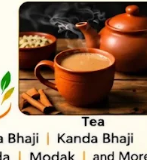
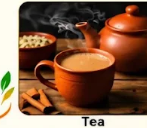
fix(ui-ux): enhance text contrast in StickyStory, clean image crops, and improve mobile layout

diff --git a/src/components/StickyStory.tsx b/src/components/StickyStory.tsx
@@ -1,6 +1,6 @@
 "use client";
 
-// [ADDED] Sticky Scroll Story Experience: Full-screen pinned sequence (SWAD -> MASALA -> GARMA-GARAM -> MAHARASHTRA -> SWADAM -> चव महाराष्ट्राची)
+// [ADDED] Sticky Scroll Story Experience: Full-screen interactive sequence with crystal-clear contrast and typography
 import React, { useState } from "react";
 import Image from "next/image";
 import { BrushUnderline, DecorativeLeaf, SpiceSparkle } from "@/components/BrandMotifs";
@@ -14,89 +14,129 @@ export function StickyStory() {
       word: "SWAD",
       marathi: "स्वाद",
       subtitle: "The Taste that Defines Us",
-      description: "Rooted in authentic homemade Maharashtrian seasonings, balancing spicy, tangy, and savoury perfection.",
+      description:
+        "Rooted in authentic homemade Maharashtrian seasonings, balancing spicy, tangy, and savoury perfection.",
       bg: "bg-cream-100",
       textColor: "text-brown-900",
       accentColor: "text-saffron-600",
+      subtitleColor: "text-brown-900 font-bold",
+      descColor: "text-brown-800",
+      tagClasses: "bg-saffron-100 border-saffron-300 text-saffron-800",
+      tagIconColor: "text-saffron-600",
+      cardBorder: "border-turmeric-400",
       image: "/images/banner_misal.png",
       tag: "Authentic Flavor",
+      dishCaption: "Spicy Pune Misal Pav",
     },
     {
       word: "MASALA",
       marathi: "मसाला",
       subtitle: "The Soul of Marathi Spice",
-      description: "Aromatic goda masala, roasted dry coconut, pungent mustard, and carom seeds roasted to peak fragrance.",
+      description:
+        "Aromatic goda masala, roasted dry coconut, pungent mustard, and carom seeds roasted to peak fragrance.",
       bg: "bg-gradient-to-br from-saffron-600 to-saffron-deep",
       textColor: "text-white",
       accentColor: "text-turmeric-300",
+      subtitleColor: "text-cream-50 font-bold",
+      descColor: "text-cream-100",
+      tagClasses: "bg-white/20 border-white/40 text-white",
+      tagIconColor: "text-turmeric-300",
+      cardBorder: "border-turmeric-300/40",
       image: "/images/kanda_bhaji.jpg",
       tag: "Tempering & Spices",
+      dishCaption: "Crispy Golden Kanda Bhaji",
     },
     {
       word: "GARMA-GARAM",
       marathi: "गरमा-गरम",
       subtitle: "Fresh From the Kadhai & Tawa",
-      description: "Never pre-packaged or stale. Food cooked right when you order it, steaming hot onto your plate.",
-      bg: "bg-brown-900",
-      textColor: "text-cream-100",
+      description:
+        "Never pre-packaged or stale. Food cooked right when you order it, steaming hot onto your plate.",
+      bg: "bg-gradient-to-br from-[#2D1810] to-[#1A0E08]",
+      textColor: "text-cream-50",
       accentColor: "text-turmeric-gold",
+      subtitleColor: "text-turmeric-200 font-bold",
+      descColor: "text-cream-200",
+      tagClasses: "bg-white/10 border-turmeric-400/40 text-turmeric-300",
+      tagIconColor: "text-turmeric-gold",
+      cardBorder: "border-turmeric-400/50",
       image: "/images/wada_pav.jpg",
       tag: "Cooked Fresh",
+      dishCaption: "Iconic Maharashtra Wada Pav",
     },
     {
       word: "MAHARASHTRA",
       marathi: "महाराष्ट्र",
       subtitle: "Culinary Heritage of the Soil",
-      description: "From the breakfast streets of Pune to the thali traditions of rural Maharashtra, pure veg comfort in every bite.",
-      bg: "bg-gradient-to-br from-brandGreen-800 to-brandGreen-900",
+      description:
+        "From the breakfast streets of Pune to the thali traditions of rural Maharashtra, pure veg comfort in every bite.",
+      bg: "bg-gradient-to-br from-[#143D22] to-[#0D2B16]",
       textColor: "text-white",
       accentColor: "text-turmeric-300",
+      subtitleColor: "text-cream-50 font-bold",
+      descColor: "text-cream-100",
+      tagClasses: "bg-white/20 border-white/40 text-white",
+      tagIconColor: "text-turmeric-300",
+      cardBorder: "border-turmeric-400/40",
       image: "/images/lunch_thali.jpg",
       tag: "Culture on a Plate",
+      dishCaption: "Maharashtrian Lunch Thali",
     },
     {
       word: "SWADAM",
       marathi: "स्वादिष्ट",
       subtitle: "चव महाराष्ट्राची",
-      description: "Shop No. 5, 34 Western Pavilion, Pan Card Club Road, Baner. Where Pune comes home for true Swad.",
+      description:
+        "Shop No. 5, 34 Western Pavilion, Pan Card Club Road, Baner. Where Pune comes home for true Swad.",
       bg: "bg-gradient-to-br from-[#1A0E08] via-brown-900 to-[#2D1810]",
       textColor: "text-cream-50",
       accentColor: "text-saffron-400",
+      subtitleColor: "text-turmeric-300 font-bold",
+      descColor: "text-cream-200",
+      tagClasses: "bg-saffron-500/30 border-saffron-400 text-turmeric-200",
+      tagIconColor: "text-turmeric-gold",
+      cardBorder: "border-turmeric-400/60",
       image: "/images/storefront.jpg",
       tag: "Visit Us in Baner",
+      dishCaption: "Shop No. 5, Baner, Pune",
     },
   ];
 
   const current = stages[activeStep];
 
   return (
-    <section className="relative py-20 sm:py-28 px-4 sm:px-8 md:px-12 bg-brown-900 text-cream-100 overflow-hidden" aria-label="Interactive Brand Story">
-      
+    <section
+      className="relative py-20 sm:py-28 px-4 sm:px-8 md:px-12 bg-brown-900 text-cream-100 overflow-hidden"
+      aria-label="Interactive Brand Story"
+    >
       <div className="mx-auto max-w-7xl">
-        
         {/* Navigation Indicator / Step Dots */}
-        <div className="flex items-center justify-between pb-8 mb-8 border-b border-white/10">
+        <div className="flex flex-wrap items-center justify-between gap-4 pb-8 mb-8 border-b border-white/10">
           <div className="flex items-center gap-2">
             <span className="text-xs font-mono font-bold tracking-widest text-turmeric-400">
-              STORY CHAPTER {activeStep + 1} OF {stages.length}
+              STORY CHAPTER 0{activeStep + 1} OF 0{stages.length}
             </span>
           </div>
 
-          <div className="flex items-center gap-2">
+          {/* Stepper Tabs with Labels */}
+          <div className="flex items-center gap-1.5 sm:gap-2">
             {stages.map((stg, i) => (
               <button
                 key={i}
                 onClick={() => setActiveStep(i)}
-                className={`h-2.5 rounded-full transition-all duration-300 ${
+                className={`px-3 py-1 rounded-full text-xs font-bold transition-all duration-300 flex items-center gap-1 ${
                   activeStep === i
-                    ? "w-8 bg-turmeric-gold shadow-md"
-                    : "w-2.5 bg-white/20 hover:bg-white/40"
+                    ? "bg-turmeric-gold text-brown-900 shadow-md scale-105"
+                    : "bg-white/10 text-cream-200 hover:bg-white/20"
                 }`}
                 aria-label={`Jump to stage ${i + 1}: ${stg.word}`}
-              />
+              >
+                <span>{stg.word}</span>
+              </button>
             ))}
           </div>
 
+          {/* Arrow Controls */}
           <div className="flex items-center gap-2">
             <button
               onClick={() => setActiveStep((prev) => Math.max(0, prev - 1))}
@@ -118,63 +158,93 @@ export function StickyStory() {
         </div>
 
         {/* Dynamic Stage Display Box */}
-        <div className={`rounded-3xl p-8 sm:p-12 md:p-16 border-2 border-turmeric-400/40 shadow-2xl transition-all duration-700 ${current.bg}`}>
+        <div
+          className={`rounded-3xl p-8 sm:p-12 md:p-16 border-2 shadow-2xl transition-all duration-500 ${current.bg} ${current.cardBorder}`}
+        >
           <div className="grid grid-cols-1 lg:grid-cols-12 gap-8 lg:gap-12 items-center">
-            
             {/* Left Typography (Col 1-7) */}
-            <div className="lg:col-span-7 space-y-4">
-              <span className="inline-flex items-center gap-1.5 px-3.5 py-1 rounded-full text-xs font-bold bg-white/20 backdrop-blur-sm border border-white/30 text-white">
-                <SpiceSparkle className="w-3.5 h-3.5 text-turmeric-300" />
-                {current.tag}
-              </span>
+            <div className="lg:col-span-7 space-y-5">
+              {/* Stage Pill Badge with explicit high-contrast colors */}
+              <div className="inline-block">
+                <span
+                  className={`inline-flex items-center gap-1.5 px-3.5 py-1.5 rounded-full text-xs font-bold border shadow-sm ${current.tagClasses}`}
+                >
+                  <SpiceSparkle className={`w-3.5 h-3.5 ${current.tagIconColor}`} />
+                  <span>{current.tag}</span>
+                </span>
+              </div>
 
+              {/* Main Headline & Marathi script */}
               <div className="space-y-1">
-                <h3 className={`font-display text-5xl sm:text-7xl md:text-8xl font-black tracking-tight leading-none ${current.textColor}`}>
+                <h3
+                  className={`font-display text-5xl sm:text-7xl md:text-8xl font-black tracking-tight leading-none ${current.textColor}`}
+                >
                   {current.word}
                 </h3>
-                <span className={`font-devanagari text-3xl sm:text-5xl font-black block ${current.accentColor}`}>
+                <span
+                  className={`font-devanagari text-3xl sm:text-5xl font-black block pt-1 ${current.accentColor}`}
+                >
                   {current.marathi}
                 </span>
               </div>
 
-              <h4 className="font-display text-xl sm:text-2xl font-bold opacity-90">
+              {/* Subtitle - explicitly styled */}
+              <h4 className={`font-display text-2xl sm:text-3xl leading-snug ${current.subtitleColor}`}>
                 {current.subtitle}
               </h4>
 
-              <p className="text-sm sm:text-lg opacity-85 leading-relaxed font-sans max-w-xl">
+              {/* Description - explicitly styled */}
+              <p
+                className={`text-base sm:text-lg leading-relaxed font-sans max-w-xl ${current.descColor}`}
+              >
                 {current.description}
               </p>
 
-              {/* Final reveal footer on last step */}
-              {activeStep === stages.length - 1 && (
-                <div className="pt-4 border-t border-white/20 mt-4">
-                  <span className="font-devanagari text-2xl sm:text-3xl font-bold text-turmeric-gold block">
-                    चव महाराष्ट्राची — Shop No. 5, Baner, Pune
+              {/* Bottom chapter navigator within card */}
+              <div className="pt-4 border-t border-black/10 dark:border-white/10 flex items-center justify-between">
+                <span className={`text-xs font-mono font-bold ${current.descColor}`}>
+                  Chapter 0{activeStep + 1} of 05
+                </span>
+                {activeStep < stages.length - 1 ? (
+                  <button
+                    onClick={() => setActiveStep((prev) => prev + 1)}
+                    className="inline-flex items-center gap-1.5 text-xs font-bold underline underline-offset-4 hover:opacity-80 transition-opacity"
+                  >
+                    <span>Next: {stages[activeStep + 1].word}</span>
+                    <ChevronRight className="w-3.5 h-3.5" />
+                  </button>
+                ) : (
+                  <span className="font-devanagari text-sm font-bold text-turmeric-gold">
+                    चव महाराष्ट्राची — Baner, Pune
                   </span>
-                </div>
-              )}
-            </div>
-
-            {/* Right Visual Image (Col 8-12) */}
-            <div className="lg:col-span-5 relative flex items-center justify-center">
-              <div className="relative w-full max-w-[380px] aspect-square rounded-3xl overflow-hidden border-4 border-white/20 shadow-2xl group">
-                <Image
-                  src={current.image}
-                  alt={current.word}
-                  fill
-                  className="object-cover group-hover:scale-105 transition-transform duration-500"
-                />
-                <div className="absolute inset-0 bg-gradient-to-t from-black/60 via-transparent to-transparent" />
-                <div className="absolute bottom-4 left-4 right-4 text-white">
-                  <span className="font-display font-bold text-lg block">{current.word}</span>
-                  <span className="font-devanagari text-sm text-turmeric-300 font-semibold">{current.marathi}</span>
-                </div>
+                )}
               </div>
             </div>
 
+            {/* Right Visual Image Frame (Col 8-12) */}
+            <div className="lg:col-span-5 relative flex items-center justify-center">
+              <div className="relative w-full max-w-[420px] aspect-[4/3] rounded-3xl overflow-hidden border-4 border-white/30 shadow-2xl bg-black/40 group">
+                <Image
+                  src={current.image}
+                  alt={current.dishCaption}
+                  fill
+                  sizes="(max-width: 768px) 100vw, 420px"
+                  className="object-cover group-hover:scale-105 transition-transform duration-700"
+                />
+                
+                {/* Clean Bottom Caption Tag */}
+                <div className="absolute bottom-3 left-3 right-3 bg-black/75 backdrop-blur-md px-3.5 py-2 rounded-xl border border-white/20 text-white flex items-center justify-between">
+                  <span className="font-display font-bold text-xs sm:text-sm truncate">
+                    {current.dishCaption}
+                  </span>
+                  <span className="text-[10px] font-mono text-turmeric-400 font-bold uppercase tracking-wider flex-shrink-0 ml-2">
+                    Pure Veg
+                  </span>
+                </div>
+              </div>
+            </div>
           </div>
         </div>
-
       </div>
     </section>
   );

diff --git a/src/components/SignatureMenu.tsx b/src/components/SignatureMenu.tsx
@@ -377,16 +377,25 @@ export function SignatureMenu() {
                         isHovered ? "pl-4 sm:pl-6 bg-white/5 rounded-2xl" : ""
                       }`}
                     >
-                      <div className="flex items-center gap-4 sm:gap-6">
+                      <div className="flex items-center gap-3 sm:gap-6">
                         <span className="text-xs font-mono text-turmeric-400 font-bold opacity-60">
                           0{idx + 1}
                         </span>
+                        {/* Mobile Thumbnail */}
+                        <div className="sm:hidden relative w-12 h-12 rounded-xl overflow-hidden flex-shrink-0 bg-brown-900 border border-turmeric-400/40">
+                          <Image
+                            src={snack.image}
+                            alt={snack.name}
+                            fill
+                            className="object-cover"
+                          />
+                        </div>
                         <div>
-                          <div className="flex items-baseline gap-3">
-                            <span className="font-display text-2xl sm:text-4xl md:text-5xl font-black tracking-tight text-cream-100 group-hover:text-turmeric-gold transition-colors">
+                          <div className="flex items-baseline gap-2 sm:gap-3">
+                            <span className="font-display text-xl sm:text-4xl md:text-5xl font-black tracking-tight text-cream-100 group-hover:text-turmeric-gold transition-colors">
                               {snack.name}
                             </span>
-                            <span className="font-devanagari text-lg sm:text-xl text-saffron-400 font-bold">
+                            <span className="font-devanagari text-base sm:text-xl text-saffron-400 font-bold">
                               {snack.nameMarathi}
                             </span>
                           </div>

diff --git a/src/components/Hero.tsx b/src/components/Hero.tsx
@@ -250,9 +250,9 @@ export function Hero() {
               </div>
             </div>
 
-            {/* Floating Satellite Dish: Misal Pav / Garma-Garam Poha */}
+            {/* Floating Satellite Dish: Misal Pav (sm+ only to prevent mobile overlap) */}
             <div
-              className="absolute -bottom-6 -left-6 z-20 bg-white rounded-2xl p-2 border-2 border-saffron-500 shadow-xl flex items-center gap-2.5 max-w-[210px] hover:scale-105 transition-transform duration-300"
+              className="hidden sm:flex absolute -bottom-6 -left-6 z-20 bg-white rounded-2xl p-2 border-2 border-saffron-500 shadow-xl items-center gap-2.5 max-w-[210px] hover:scale-105 transition-transform duration-300"
             >
               <div className="relative w-12 h-12 rounded-xl overflow-hidden flex-shrink-0 bg-cream-100">
                 <Image
@@ -273,9 +273,9 @@ export function Hero() {
               </div>
             </div>
 
-            {/* Floating Satellite Dish: Wada Pav (Bottom-Right) */}
+            {/* Floating Satellite Dish: Wada Pav (sm+ only to prevent mobile overlap) */}
             <div
-              className="absolute -bottom-6 -right-4 z-20 bg-white rounded-2xl p-2 border-2 border-turmeric-400 shadow-xl flex items-center gap-2 max-w-[170px] hover:scale-105 transition-transform duration-300"
+              className="hidden sm:flex absolute -bottom-6 -right-4 z-20 bg-white rounded-2xl p-2 border-2 border-turmeric-400 shadow-xl items-center gap-2 max-w-[170px] hover:scale-105 transition-transform duration-300"
             >
               <div className="relative w-11 h-11 rounded-xl overflow-hidden flex-shrink-0 bg-cream-100">
                 <Image

diff --git a/src/components/EditorialIntro.tsx b/src/components/EditorialIntro.tsx
@@ -17,9 +17,9 @@ export function EditorialIntro() {
     return () => window.removeEventListener("scroll", handleScroll);
   }, []);
 
-  // Subtle horizontal scroll shift for the oversized typographic statement
-  const shiftLeft = (scrollY * 0.05) % 60;
-  const shiftRight = -(scrollY * 0.05) % 60;
+  // Smooth scroll shift for the oversized typographic statement based on scroll position
+  const shiftLeft = Math.max(-50, Math.min(50, (scrollY - 600) * 0.08));
+  const shiftRight = -shiftLeft;
 
   const iconMap: Record<string, React.ReactNode> = {
     UtensilsCrossed: <UtensilsCrossed className="w-6 h-6 text-saffron-600" />,

diff --git a/src/app/page.tsx b/src/app/page.tsx
@@ -21,7 +21,7 @@ import { FloatingCTA } from "@/components/FloatingCTA";
 
 export default function Home() {
   return (
-    <main className="min-h-screen flex flex-col bg-cream-bg selection:bg-saffron-500 selection:text-white">
+    <main className="min-h-screen flex flex-col bg-cream-bg selection:bg-saffron-500 selection:text-white pb-16 sm:pb-20 lg:pb-0">
       {/* Morphing Sticky Glass Navigation */}
       <Navigation />
 
